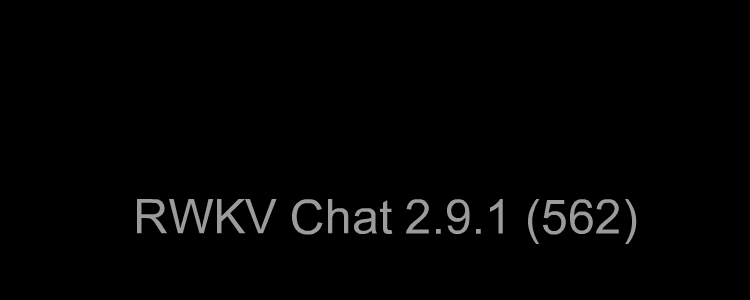
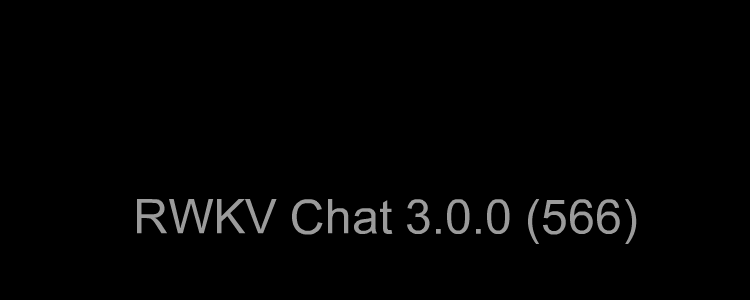
3.0.0(567)

Changed region(s): [[0.5213, 0.66, 0.7053, 0.78], [0.7973, 0.66, 0.828, 0.78]]

diff --git a/lib/store/chat.dart b/lib/store/chat.dart
@@ -159,6 +159,7 @@ extension $Chat on _Chat {
       } else {
         P.world.imagePath.q = null;
         await send("", type: MessageType.userImage, imageUrl: imagePath);
+        await Future.delayed(50.ms);
         final finalTextToSend = "<image>$imagePath</image>" + textToSend.trim();
         await send(finalTextToSend);
       }

diff --git a/lib/args.dart b/lib/args.dart
@@ -14,3 +14,4 @@ abstract class Args {
   static const othelloTestCase = int.fromEnvironment("othello_test_case", defaultValue: -1);
   static const showHaloDebugger = bool.fromEnvironment("showHaloDebugger", defaultValue: false);
 }
+
